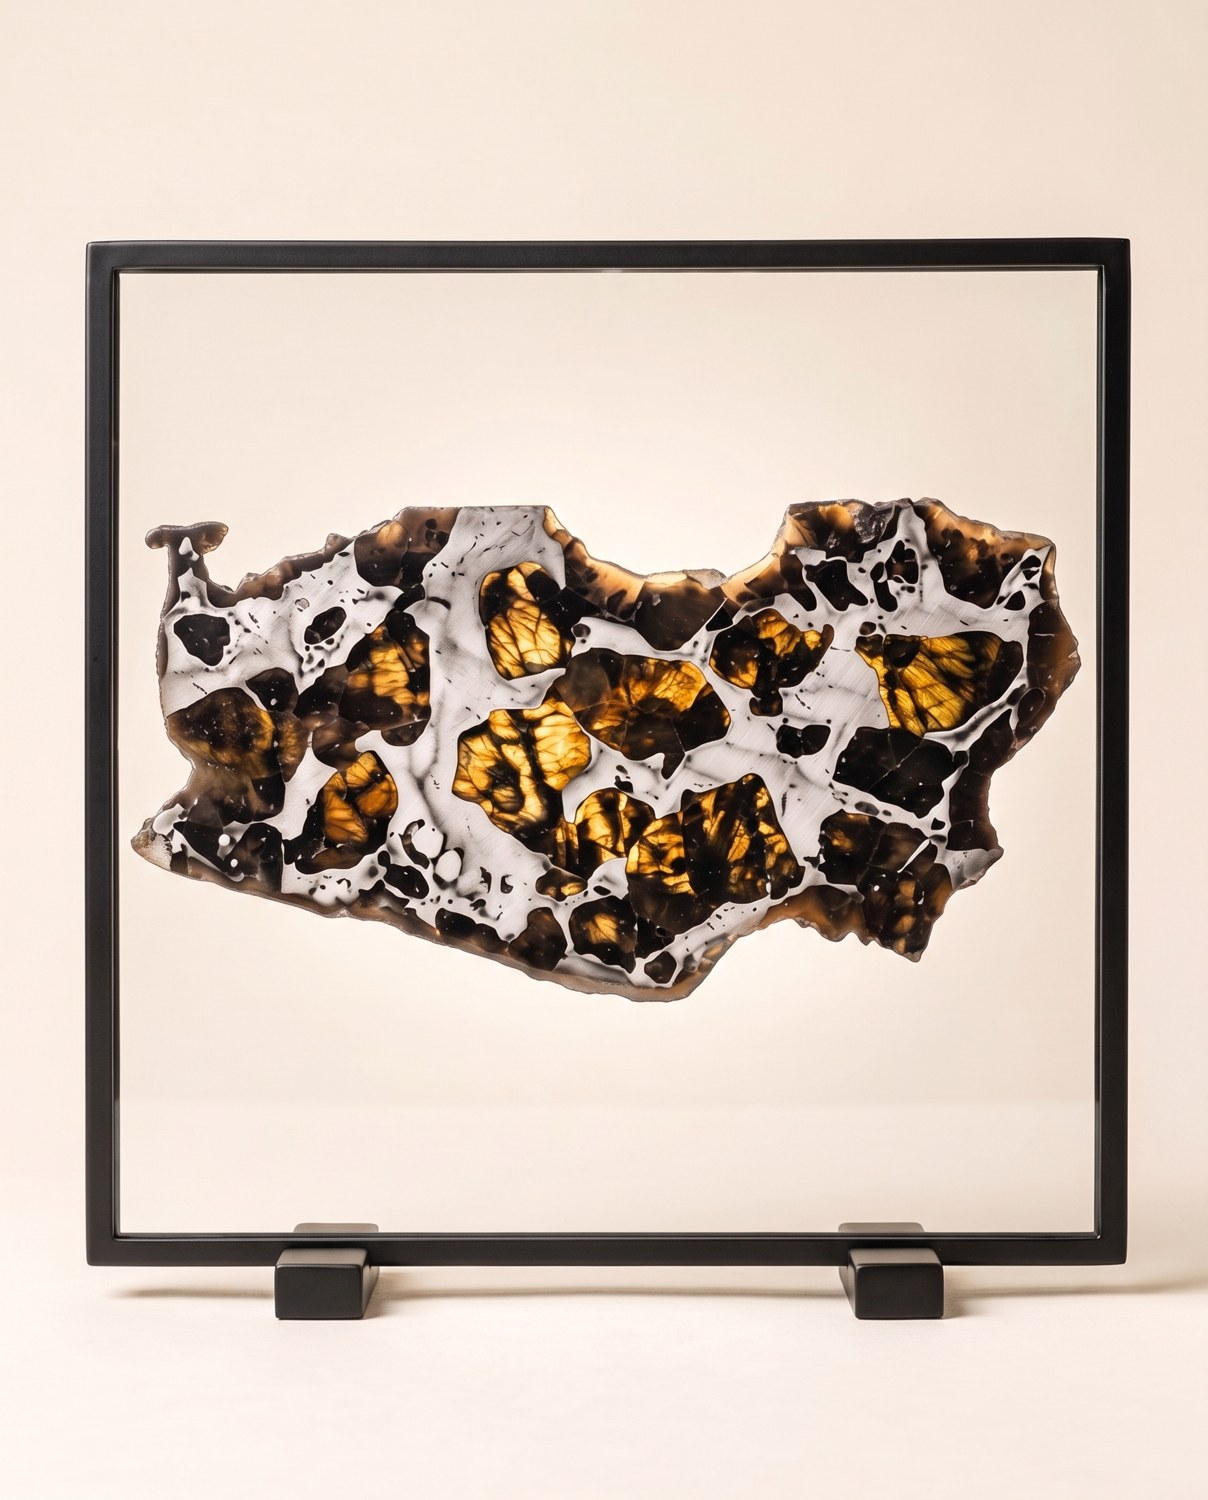
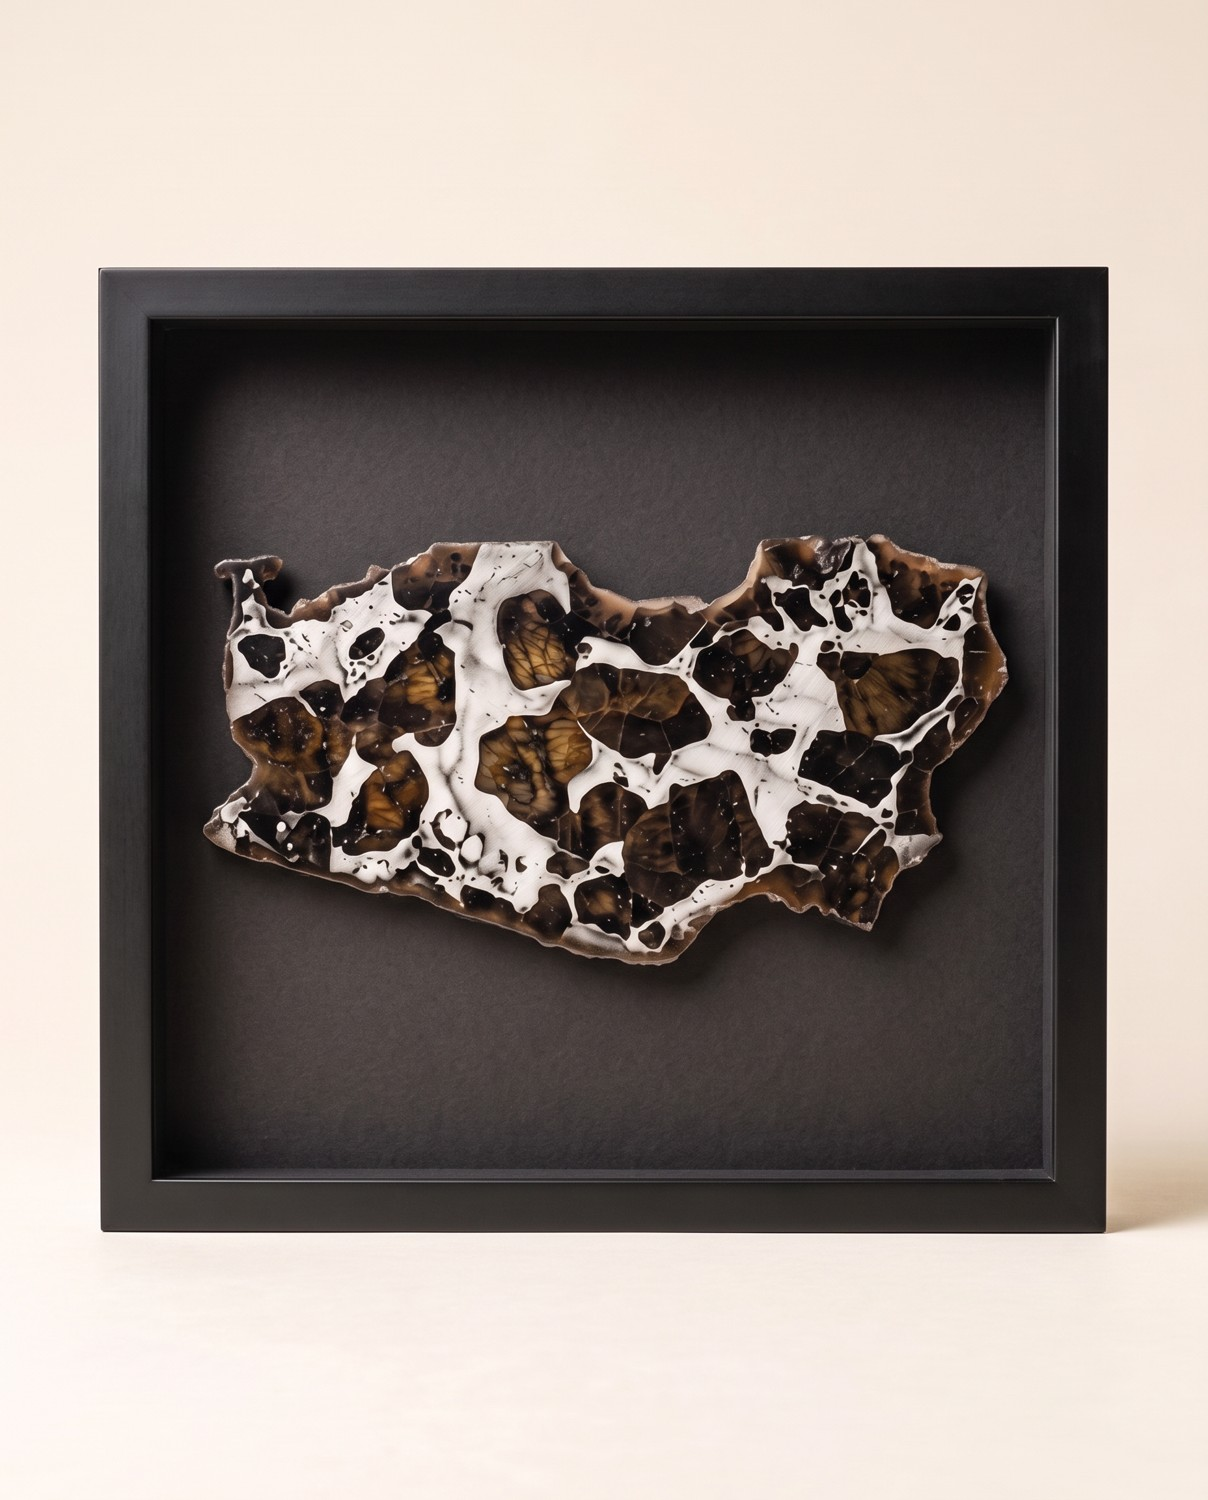
Омолон — в такой же раме, как Сеймчан
Плавающая рама со стеклом заменена на глубокую коробчатую с тёмным
паспарту и матовым чёрным профилем: канон — рама сама по себе, интерьер —
на стене над консолью. Дом получает один тип рамы на оба палласита.

diff --git a/shared/catalog.js b/shared/catalog.js
@@ -1253,7 +1253,7 @@ window.RELICTUM_CATALOG = [
     "age": "≈ 4,5 млрд лет",
     "location": "Бассейн реки Омолон, Магаданская область, Россия",
     "size": "По запросу",
-    "mount": "Плавающая рама из чернёной стали, стекло с двух сторон",
+    "mount": "Глубокая рама с тёмным паспарту, к стене",
     "description": "Пластина палласита Омолон — метеорита весом 250 кг, упавшего 16 мая 1981 года в бассейне реки Омолон в Магаданской области и найденного оленеводом Иваном Тынавьи.",
     "href": "../16_product_promos/exhibit.html?id=0289-omolon",
     "found": "1981 г."

diff --git a/16_product_promos/promo-data.js b/16_product_promos/promo-data.js
@@ -2631,7 +2631,7 @@ window.RELICTUM_PROMO = {
     ],
     "interior": {
       "img": "int_ph_met_omolon.jpg",
-      "text": "Раму ставят против окна: дневной свет проходит сквозь стекло, и оливин загорается изнутри."
+      "text": "Рама вешается как графика: свет вскользь по стене вытягивает из металла рисунок оливина."
     },
     "gallery": [
    "int_ph_met_omolon.jpg",
